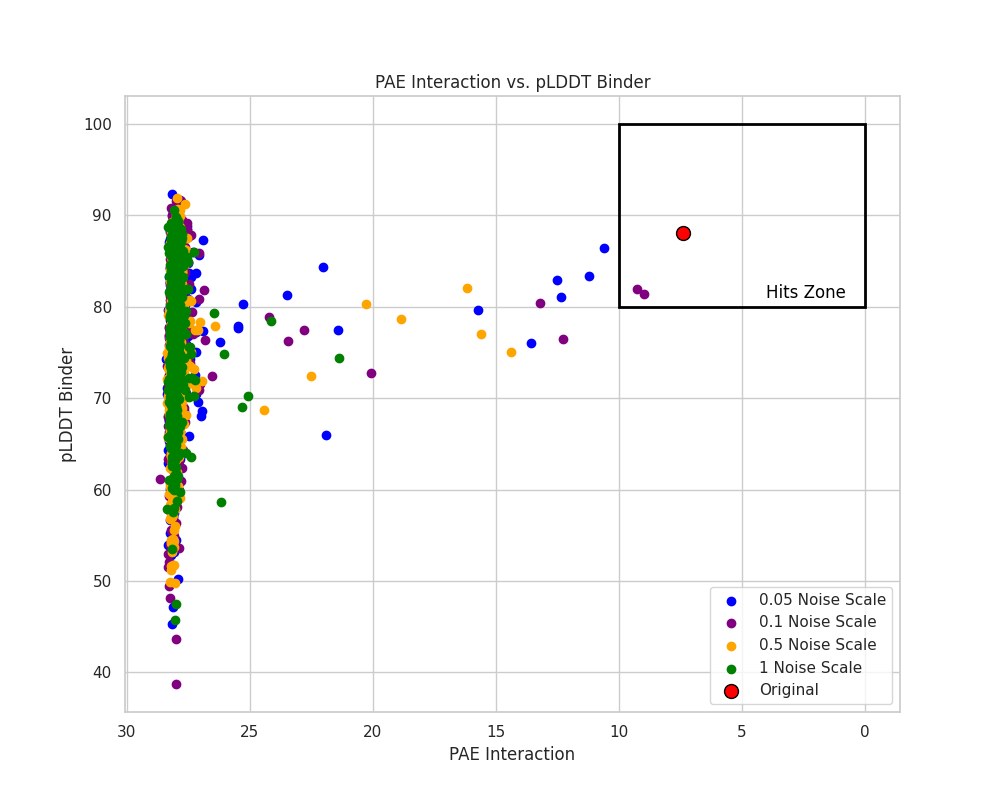
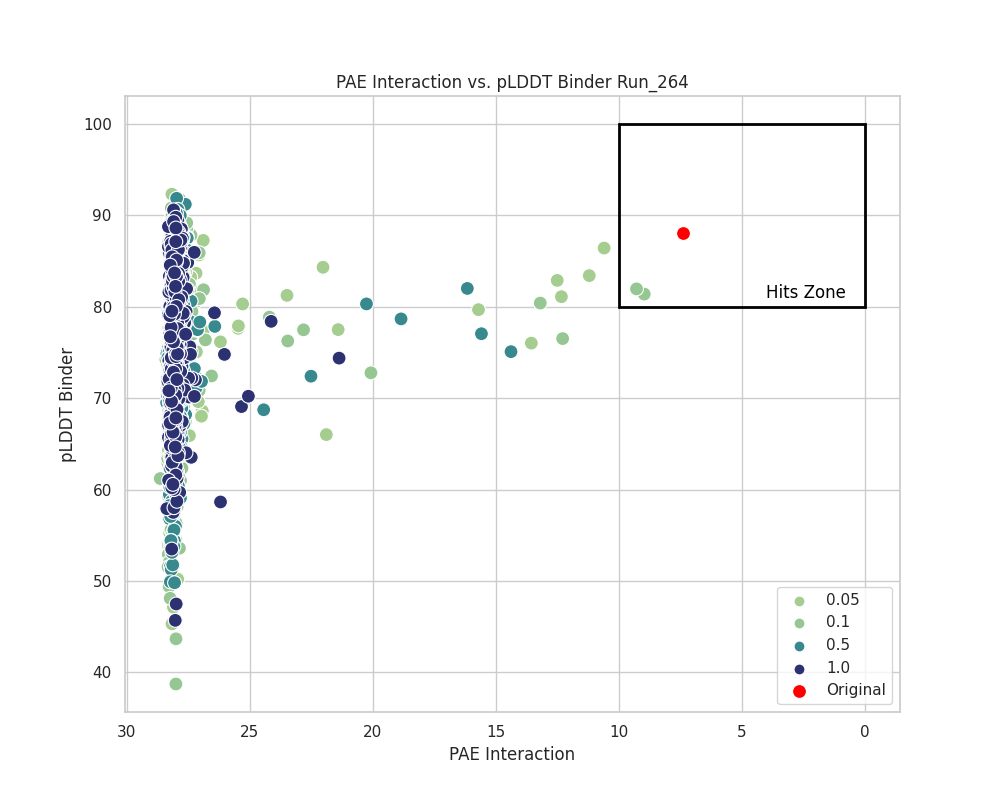
Figures

diff --git a/FIGURES/Noise_Scale_figures.py b/FIGURES/Noise_Scale_figures.py
@@ -16,42 +16,20 @@ df_filtered_112.loc[df_filtered_112['Noise'] == '01', 'Noise'] = 0.1
 df_filtered_112.loc[df_filtered_112['Noise'] == '05', 'Noise'] = 0.5
 df_filtered_112.loc[df_filtered_112['Noise'] == '1', 'Noise'] = 1.0
 
-# Initialize the plot
-plt.figure(figsize=(10, 8))
-
-# Plot with seaborn
-sns.scatterplot(data=df_filtered_112, x='Noise', y='RMSD', hue='Noise', palette='viridis', s=100)
-
-# Prepare data for regression with all the points
-# X = df_filtered_112['Noise'].tolist()
-# y = df_filtered_112['RMSD'].tolist()
-# slope, intercept, r_value, p_value, std_err = scipy.stats.linregress(X, y)
-# r_squared = r_value ** 2
-# y_pred = [intercept + slope * value for value in X]
-
-X=[0.05,0.1, 0.5,1]
-y=[]
-for noise in df_filtered_112['Noise'].unique():
-    y.append(np.mean(df_filtered_112['RMSD'][df_filtered_112['Noise']==noise]))
-
-slope, intercept, r_value, p_value, std_err = scipy.stats.linregress(X, y)
-y_pred = [intercept + slope * value for value in X]
-
-# Plot the regression line
-sns.lineplot(x=X, y=y_pred, label=f'$r$={r_value:.2f}', color='red')
-print(r_value)
-# Add title and labels
-plt.title('RMSD vs. Noise Scale Levels', fontsize=16)
-plt.xlabel('Noise Level', fontsize=14)
-plt.ylabel('RMSD', fontsize=14)
-plt.legend(title='Regression Line', loc='lower right')
-plt.grid(True)
+plt.figure(figsize=(12,10))
+sns.set_theme(style='whitegrid')
+sns.pointplot(data=df_filtered_112, x='Noise', y='RMSD', hue= 'Noise', palette='crest', s=100,capsize=0.2, ci=95 )
+plt.title('RMSD vs Noise Scale')
+plt.xlabel('Noise Scale (Arb.U)')
+plt.ylabel(f'RMSD ($\AA$)')
+plt.legend(title='Noise Scale')
 plt.savefig('/home/cchacon/Carlos_scripts/FIGURES/Noise_Scale_RMSD.png')
 
+
 plt.figure(figsize=(8,10))
-boxplot=sns.boxplot(data=df_filtered_112, x='Noise', y='RMSD', palette='viridis')
+violinplot=sns.violinplot(data=df_filtered_112, x='Noise', y='RMSD', palette='crest')
 annotator=Annotator(
-    boxplot,
+    violinplot,
     data=df_filtered_112,
     x='Noise',
     y='RMSD',
@@ -71,15 +49,15 @@ annotator.apply_and_annotate()
 plt.title('RMSD vs Noise Scale')
 plt.ylabel(f'RMSD ($\AA$)')
 plt.xlabel('Noise Scale (Arb.U)')
-plt.savefig('/home/cchacon/Carlos_scripts/FIGURES/boxplot_rmsd_noisescale.png')
+plt.savefig('/home/cchacon/Carlos_scripts/FIGURES/violinplot_rmsd_noisescale.png')
 
 #df_filter hits
 df_hits=df_filtered_112[(df_filtered_112['pae_interaction'] < 10) & (df_filtered_112['plddt_binder']>80)]
-#A boxplot in case it is interesting 
+#A violinplot in case it is interesting 
 plt.figure(figsize=(10,12))
-boxplot=sns.boxplot(data=df_hits, x='Noise', y='pae_interaction', palette='viridis')
+violinplot=sns.violinplot(data=df_hits, x='Noise', y='pae_interaction', palette='crest')
 annotator=Annotator(
-    boxplot,
+    violinplot,
     data=df_hits,
     x='Noise',
     y='pae_interaction',
@@ -100,8 +78,52 @@ plt.title('Noise Scale vs Pae_interaction')
 plt.xlabel('Noise Scale (Arb.Units)')
 plt.ylabel(f'Pae_interaction ($\AA$)')
 
-plt.savefig('/home/cchacon/Carlos_scripts/FIGURES/boxplot_pae_interaction_noise_scale.png')
+plt.savefig('/home/cchacon/Carlos_scripts/FIGURES/violinplot_pae_interaction_noise_scale.png')
 
+df=pd.read_csv('/emdata/cchacon/partial_diff_noise_scale_test/output_af2.csv', header=0)
+
+df_filtered_112 = df[df['campaign'].str.contains('run_112_noise_scale')]
+df_filtered_112['Noise'] = df_filtered_112['campaign'].str.extract('run_112_noise_scale_(\d+)').astype(str)
+df_filtered_112.loc[df_filtered_112['Noise'] == '005', 'Noise'] = 0.05
+df_filtered_112.loc[df_filtered_112['Noise'] == '01', 'Noise'] = 0.1
+df_filtered_112.loc[df_filtered_112['Noise'] == '05', 'Noise'] = 0.5
+df_filtered_112.loc[df_filtered_112['Noise'] == '1', 'Noise'] = 1.0
+
+# Original data point
+original = {
+    'pae_interaction': [7.383],
+    'plddt_binder': [88.05]
+}
+
+
+df_original = pd.DataFrame(original)
+
+# Set the style
+sns.set(style="whitegrid")
+plt.figure(figsize=(10, 8))
+sns.scatterplot(data=df_filtered_112,x='pae_interaction',y='plddt_binder', hue='Noise', s=100, palette='crest')
+sns.scatterplot(data=df_original, x='pae_interaction', y='plddt_binder', color='red', s=100, edgecolors='k', label='Original')
+
+# Add titles and labels
+plt.title('PAE Interaction vs. pLDDT Binder Run_112')
+plt.xlabel('PAE Interaction')
+plt.ylabel('pLDDT Binder')
+
+# Highlight specific region with a square
+rect = patches.Rectangle((0, 80), 10, 20, linewidth=2, edgecolor='black', facecolor='none')
+plt.gca().add_patch(rect)
+plt.text(4, 81, 'Hits Zone', color='black', fontsize=12)
+# Invert the x-axis
+plt.gca().invert_xaxis()
+
+# Add legend
+plt.legend(title='Noise Scale')
+
+# Add grid
+plt.grid(True)
+
+# Show the plot
+plt.savefig('/home/cchacon/Carlos_scripts/FIGURES/NoiseScaleRun112Figure.png')
 
 
 #Figure for run_264
@@ -134,14 +156,11 @@ sns.set(style="whitegrid")
 
 # Create a scatter plot
 plt.figure(figsize=(10, 8))
-plt.scatter(df_005ns['pae_interaction'], df_005ns['plddt_binder'], color='blue', label='0.05 Noise Scale')
-plt.scatter(df_01ns['pae_interaction'], df_01ns['plddt_binder'], color='purple', label='0.1 Noise Scale')
-plt.scatter(df_05ns['pae_interaction'], df_05ns['plddt_binder'], color='orange', label='0.5 Noise Scale')
-plt.scatter(df_1ns['pae_interaction'], df_1ns['plddt_binder'], color='green', label='1 Noise Scale')
-plt.scatter(df_original['pae_interaction'], df_original['plddt_binder'], color='red', s=100, label='Original', edgecolors='black')
+sns.scatterplot(data=df_filtered_264, x='pae_interaction', y='plddt_binder', hue='Noise', s=100, palette='crest')
+sns.scatterplot(data=df_original, x='pae_interaction', y='plddt_binder', color='red', s=100, edgecolors='k', label='Original')
 
 # Add titles and labels
-plt.title('PAE Interaction vs. pLDDT Binder')
+plt.title('PAE Interaction vs. pLDDT Binder Run_264')
 plt.xlabel('PAE Interaction')
 plt.ylabel('pLDDT Binder')
 

diff --git a/FIGURES/Figure_noise_steps.py b/FIGURES/Figure_noise_steps.py
@@ -5,26 +5,13 @@ import numpy as np
 import matplotlib.patches as patches
 import scipy
 from statannotations.Annotator import Annotator
-
+from scipy.stats import ks_2samp
 # Load data
 df = pd.read_csv('/emdata/cchacon/RFD_PD_test/pdbs/rmsd_noise_steps.csv')
 
 # Prepare data for plotting
 df_filtered = df[df['campaign'].str.contains('campaign_run_112_ns')]
 df_filtered['Noise'] = df_filtered['campaign'].str.extract('campaign_run_112_ns(\d+)').astype(int)
-
-# Initialize the plot
-plt.figure(figsize=(10, 8))
-
-# Plot with seaborn
-sns.scatterplot(data=df_filtered, x='Noise', y='RMSD', hue='Noise', palette='viridis', s=100)
-
-# Prepare data for regression with all the points
-# X = df_filtered['Noise'].tolist()
-# y = df_filtered['RMSD'].tolist()
-# slope, intercept, r_value, p_value, std_err = scipy.stats.linregress(X, y)
-# r_squared = r_value ** 2
-# y_pred = [intercept + slope * value for value in X]
 
 X=[5,10,20,30]
 y=[]
@@ -34,21 +21,25 @@ for noise in df_filtered['Noise'].unique():
 slope, intercept, r_value, p_value, std_err = scipy.stats.linregress(X, y)
 y_pred = [intercept + slope * value for value in X]
 
-# Plot the regression line
-sns.lineplot(x=X, y=y_pred, label=f'$r$={r_value:.2f}', color='red')
+# Initialize the plot
 
-# Add title and labels
-plt.title('RMSD vs. Noise Levels with Linear Fits and $R^2$ Values', fontsize=16)
-plt.xlabel('Noise Level', fontsize=14)
-plt.ylabel('RMSD', fontsize=14)
-plt.legend(title='Regression Line')
-plt.grid(True)
+plt.figure(figsize=(12,10))
+sns.set_theme(style='whitegrid')
+sns.pointplot(data=df_filtered, x='Noise', y='RMSD', hue= 'Noise', palette='crest', s=100,capsize=0.2, ci=95)
+
+
+# Plot the regression line
+# sns.lineplot(x=X, y=y_pred, label=f'$r$={r_value:.2f}', color='red', ax=ax) ##Doesn't work##
+plt.title('RMSD vs Noise Steps')
+plt.xlabel('Noise Steps (#)')
+plt.ylabel(f'RMSD ($\AA$)')
+plt.legend(title='Noise Steps')
 plt.savefig('/home/cchacon/Carlos_scripts/FIGURES/NoiseStepsRMSD.png')
 
 plt.figure(figsize=(8,10))
-boxplot=sns.boxplot(data=df_filtered, x='Noise', y='RMSD', palette='viridis')
+violinplot=sns.violinplot(data=df_filtered, x='Noise', y='RMSD', palette='viridis')
 annotator=Annotator(
-    boxplot,
+    violinplot,
     data=df_filtered,
     x='Noise',
     y='RMSD',
@@ -68,15 +59,18 @@ annotator.apply_and_annotate()
 plt.title('RMSD vs Noise Steps')
 plt.ylabel(f'RMSD ($\AA$)')
 plt.xlabel('Noise Steps(#)')
-plt.savefig('/home/cchacon/Carlos_scripts/FIGURES/boxplot_rmsd_noisesteps.png')
+plt.savefig('/home/cchacon/Carlos_scripts/FIGURES/violinplot_rmsd_noisesteps.png')
 
 #df_filter hits
 df_hits=df_filtered[(df_filtered['pae_interaction'] < 10) & (df_filtered['plddt_binder']>80)]
-#A boxplot in case it is interesting 
+d_stat,p_value=ks_2samp(df_hits['RMSD'][df_hits['Noise']==10], df_hits['RMSD'][df_hits['Noise']==5])
+print('PVALUE BY KS IS: ',  p_value)
+
+#A violinplot in case it is interesting 
 plt.figure(figsize=(10,12))
-boxplot=sns.boxplot(data=df_hits, x='Noise', y='pae_interaction', palette='viridis')
+violinplot=sns.violinplot(data=df_hits, x='Noise', y='pae_interaction', palette='viridis')
 annotator=Annotator(
-    boxplot,
+    violinplot,
     data=df_hits,
     x='Noise',
     y='pae_interaction',
@@ -97,10 +91,7 @@ plt.title('Noise Steps vs Pae_interaction')
 plt.xlabel('Noise Steps (#)')
 plt.ylabel(f'Pae_interaction ($\AA$)')
 
-plt.savefig('/home/cchacon/Carlos_scripts/FIGURES/boxplot_pae_interaction_noise_steps.png')
-
-
-
+plt.savefig('/home/cchacon/Carlos_scripts/FIGURES/violinplot_pae_interaction_noise_steps.png')
 
 # Load the dataset
 df = pd.read_csv('/emdata/cchacon/20240522_run_264_noise_steps/output_af2.csv')
@@ -126,14 +117,11 @@ sns.set(style="whitegrid")
 
 # Create a scatter plot
 plt.figure(figsize=(10, 8))
-plt.scatter(df_5ns['pae_interaction'], df_5ns['plddt_binder'], color='blue', label='5 Noise Steps')
-plt.scatter(df_10ns['pae_interaction'], df_10ns['plddt_binder'], color='purple', label='10 Noise Steps')
-plt.scatter(df_20ns['pae_interaction'], df_20ns['plddt_binder'], color='orange', label='20 Noise Steps')
-plt.scatter(df_30ns['pae_interaction'], df_30ns['plddt_binder'], color='green', label='30 Noise Steps')
-plt.scatter(df_original['pae_interaction'], df_original['plddt_binder'], color='red', s=100, label='Original', edgecolors='black')
+sns.scatterplot(data=df_filtered, x='plddt_binder', y='pae_interaction', hue='Noise', s=100, palette='crest')
+sns.scatterplot(data=df_original, x='plddt_binder', y='pae_interaction', color='red', s=100, label='Original')
 
 # Add titles and labels
-plt.title('PAE Interaction vs. pLDDT Binder')
+plt.title('PAE Interaction vs. pLDDT Binder run_264')
 plt.xlabel('PAE Interaction')
 plt.ylabel('pLDDT Binder')
 
@@ -145,7 +133,7 @@ plt.text(4, 81, 'Hits Zone', color='black', fontsize=12)
 plt.gca().invert_xaxis()
 
 # Add legend
-plt.legend()
+plt.legend(title='Noise Steps')
 
 # Add grid
 plt.grid(True)

diff --git a/GROMACS/secondsry_structure_figures.py b/GROMACS/secondsry_structure_figures.py
@@ -1,0 +1,34 @@
+import pandas as pd
+import seaborn as sns
+import matplotlib.pyplot as plt
+
+# Load the data
+file_path = 'path_to_your_file/secondary_structure.txt'
+df_data = pd.read_csv(file_path, header=None, sep='\s+', skiprows=range(10), names=['Residue_number', 'Uk', 'Emptyval', 'Frame', 'Type'])
+
+# Map secondary structure types to integers
+structure_mapping = {structure: idx for idx, structure in enumerate(df_data['Type'].unique())}
+df_data['Type_mapped'] = df_data['Type'].map(structure_mapping)
+
+# Pivot the dataframe to get the desired format for heatmap
+df_pivot_mapped = df_data.pivot(index='Frame', columns='Residue_number', values='Type_mapped')
+
+# Create a custom color palette
+palette = sns.color_palette("tab10", len(structure_mapping))
+
+# Create the heatmap without lines
+plt.figure(figsize=(15, 10))
+heatmap = sns.heatmap(df_pivot_mapped, cmap=palette, cbar_kws={'label': 'Secondary Structure Type'}, linewidths=0)
+
+# Create custom colorbar labels
+colorbar = heatmap.collections[0].colorbar
+colorbar.set_ticks(list(structure_mapping.values()))
+colorbar.set_ticklabels(list(structure_mapping.keys()))
+
+# Set labels and title
+plt.xlabel('Residue Number')
+plt.ylabel('Frame')
+plt.title('Secondary Structure Heatmap')
+
+# Show the plot
+plt.show()

diff --git a/FIGURES/Figures_local_global_pae.py b/FIGURES/Figures_local_global_pae.py
@@ -44,7 +44,7 @@ print('Mean interacting surface: ', np.mean(df['interacting_surface']))
 plt.figure(figsize=(10, 8))
 
 # Plot with seaborn
-sns.scatterplot(data=df, y='pae_interaction_local', x='pae_interaction_global', hue='interacting_surface', palette='viridis', s=100)
+sns.scatterplot(data=df, y='pae_interaction_local', x='pae_interaction_global', hue='interacting_surface', palette='crest', s=100)
 plt.xlabel('Global PAE Interaction')
 plt.ylabel('Local PAE Interaction')
 plt.title('Global PAE Interaction vs Local PAE Interaction')

diff --git a/RFAA/lab_notebook.md b/RFAA/lab_notebook.md
@@ -1,0 +1,47 @@
+
+# RFAA
+
+Small notebook to write down what I am doing with RFAA. First of all, it works, and the script /home/cchacon/Carlos_scripts/RFAA/RFAA_cycle* is automatized to work with ZINC database
+
+My suggestion on the pipeline will be:
+
+--> First download all the ZINC compounds in sdf format
+--> Put all the files in a folder called compound and create a folder per compound in a parent directory through:
+
+```bash 
+cd compound
+
+for compound in ZINC* ; do mkdir -p $compound ; done 
+```
+--> Create a folder called protein or fasta in which you put your fasta sequences
+--> Run /home/cchacon/Carlos_scripts/RFAA/RFAAformat.py to create the input.yaml for each folder. It admits a maximum of two fastas
+    RFAAformat.py takes as input a fasta flag, with the direction of the fastas, a folder in which the yaml is going to be saved and a comp flag with the direction of the fasta
+```bash 
+for folder in ZINC* ; do comp_name="$folder.sdf" ; python3 /home/cchacon/Carlos_scripts/RFAA/RFAAformat.py --fasta fastas/ragA.fasta fastas/ragC.fasta --folder $folder --comp compounds/$comp_name ; done
+```
+--> Run the /home/cchacon/Carlos_scripts/RFAA/RFAA_cycle* . Probably in the future should be adequate to add a flag to select how many jobs to send to the cluster (right now 5 to the cryoem and 10 to the cluster_cnio)
+```bash 
+bash ../scripts/RFAA_cycle_cryo.sh
+```
+To analyze the results, run close_residues_aa.py in pymol and Scoring_csv.py
+
+```bash 
+#From the parent directory
+for folder in ZINC*; do pymol -c /home/cchacon/Carlos_scripts/RFAA/close_residues_aa.py --protein $folder/$folder.pdb --length 880 ; done
+#Right now it needs the length of the protein without the compound
+for folder in ZINC* ; do echo $folder ; python3 /home/cchacon/Carlos_scripts/RFAA/Scoring_csv.py --folder $folder ; done
+```
+This returns two csvs, one called close_residues.csv which is not relevant, and a csv with the scoring (plddt, pae_interaction and cutre)
+In the paper they mentioned as relevant those compounds with a pae smaller than 10
+
+## FASTER
+
+Rafa noted that RFAA spends most of the time performing the sequence alignement. One way to avoid this is performing one prediction and then copying hte folder which should be called as the compound, in case you are using RFAAformat. 
+
+Only check with one compound, but it is 3.98 times faster this way in the case of myb. However, there are slight modifications in the prediction (that can be due to the prediction process and non related to the fact that we are copying the alignment)
+
+![alt text](./RMSD_alingment.png)
+
+There is a RMSD between the protein chains of 0.799 $\AA$ and between the ligand of 0.465 $\AA$
+
+I also do the same thing with the Rags complex, and is like 10 times faster
